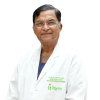
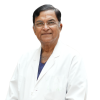
feat: update Doctor component to replace an image and enhance doctor profile representation

Changed region(s): [[0.45, 0.75, 0.66, 0.9]]

diff --git a/src/components/Doctor.tsx b/src/components/Doctor.tsx
@@ -5,7 +5,7 @@ import vinaygupta from "../assets/Doc/dr-ajay-kumar-kriplani-1299.png";
 import asifaijaz from "../assets/Doc/dr-anil-saxena-27.jpg";
 import shalinisrivastava from "../assets/Doc/dr-anil-mandhani-4722.jpg";
 import rahulmishra from "../assets/Doc/dr-ajay-kaul-6323.jpg";
-import mohitkhatri from "../assets/Doc/dr-ajay-kaul-6323.jpg";
+import arvindkumar from "../assets/Doc/dr-arvind-kumar-11636.jpg";
 import faizalzubair from "../assets/Doc/dr-ajay-kaul-6323.jpg";
 import sunita from "../assets/Doc/dr-ajay-kaul-6323.jpg";
 import raptitrivadei from "../assets/Doc/dr-ajay-kaul-6323.jpg";
@@ -58,7 +58,7 @@ const doctors = [
     location: "Noida",
     specialty: "Skin Care",
     experience: "30 Years",
-    image: rahulmishra,
+    image: arvindkumar,
   }
 ];
 
